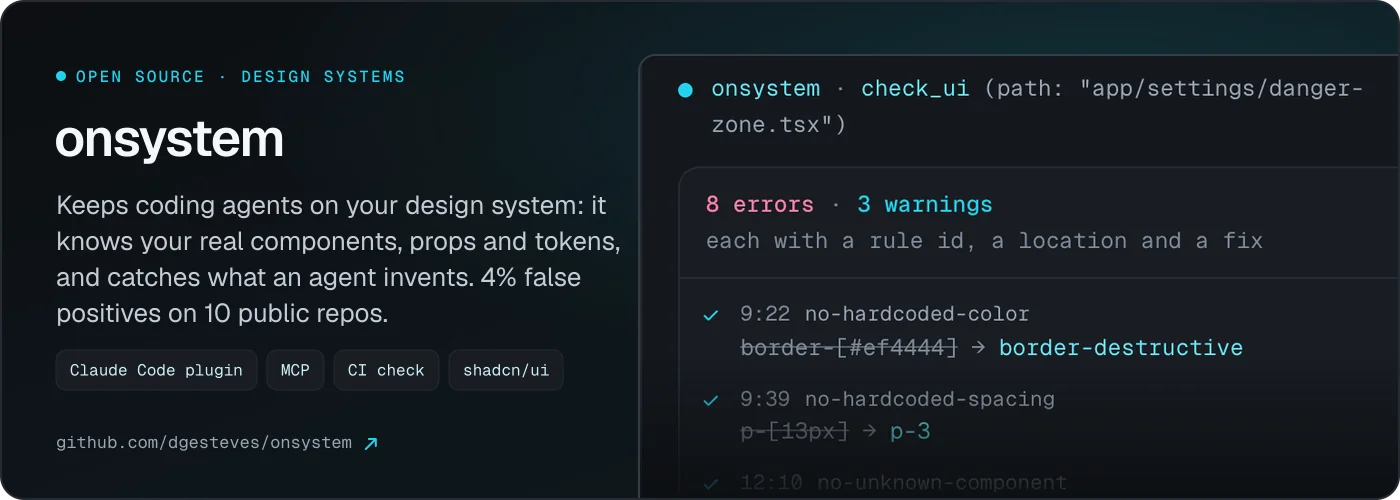
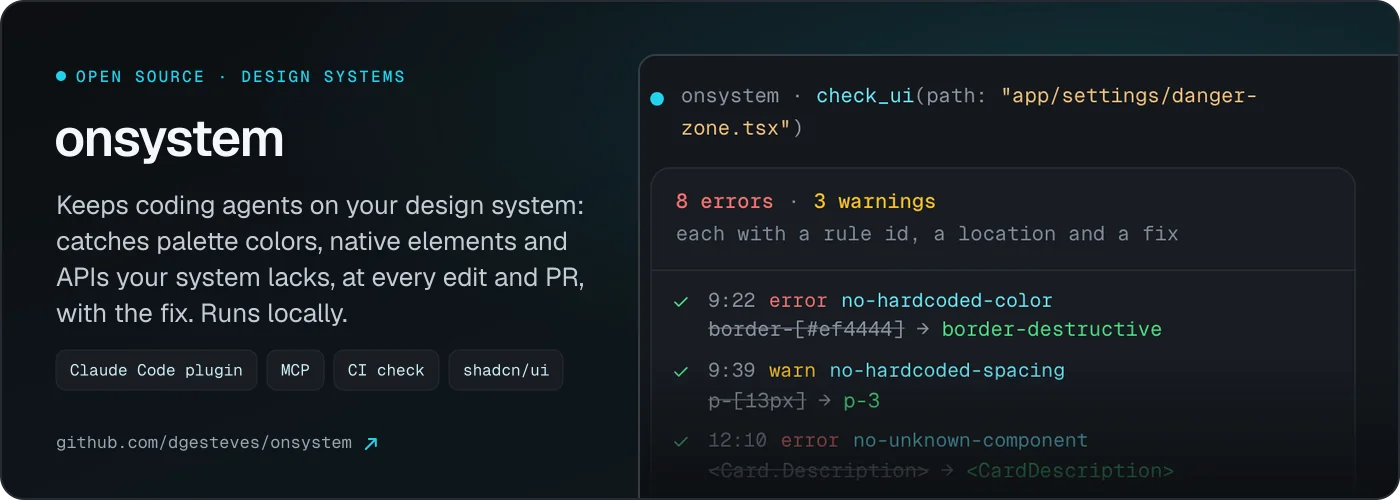
docs: current project pitches on the profile cards
Re-renders the three project cards and their alt text with the launch
copy: onsystem's palette/native-element/API pitch (drops the withdrawn
4% figure), ondocs as open-source Ask AI for docs with VitePress, and
signoff-ui with ACP.

diff --git a/README.md b/README.md
@@ -26,11 +26,11 @@ Full-stack engineer, 10+ years in, focused on AI. I build AI products end to end
 
 https://github.com/user-attachments/assets/0eca8b07-3f2f-4eb1-9419-55a4a48e9b2a
 
-<a href="https://github.com/dgesteves/onsystem"><img src="assets/project-onsystem.webp" width="100%" alt="onsystem: keeps coding agents on your design system. It knows your real components, props and tokens and catches what an agent invents; 4% false positives on 10 public repos. Claude Code plugin, MCP, CI check, shadcn/ui."></a>
+<a href="https://github.com/dgesteves/onsystem"><img src="assets/project-onsystem.webp" width="100%" alt="onsystem: keeps coding agents on your design system. Catches palette colors, native elements and APIs your design system lacks in agent-written React, at every edit and pull request, with the fix. Claude Code plugin, MCP, CI check, shadcn/ui."></a>
 
-<a href="https://github.com/dgesteves/ondocs"><img src="assets/project-ondocs.webp" width="100%" alt="ondocs: makes your docs answerable by people and agents from one static index: a cited Ask box, an MCP server and llms.txt. No vector database, no vendor. Docusaurus, Starlight, MCP, llms.txt."></a>
+<a href="https://github.com/dgesteves/ondocs"><img src="assets/project-ondocs.webp" width="100%" alt="ondocs: open-source Ask AI for your docs. Cited answers on your own model key, and an MCP server for agents, from one index built with your site. No vector database. Starlight, Docusaurus, VitePress, MCP."></a>
 
-<a href="https://github.com/dgesteves/signoff-ui"><img src="assets/project-signoff-ui.webp" width="100%" alt="signoff-ui: review what your agent changed and approve what it may do. React components for multi-file diff review and tool approvals with rules. AI SDK 6 &amp; 7, AG-UI, shadcn registry, WCAG AA."></a>
+<a href="https://github.com/dgesteves/signoff-ui"><img src="assets/project-signoff-ui.webp" width="100%" alt="signoff-ui: review what your agent changed. Approve what it may do. React components for multi-file diff review and tool approvals, for AI SDK, AG-UI and ACP agents. AI SDK 6 &amp; 7, AG-UI, ACP, shadcn registry."></a>
 
 Websites, each with docs and a live demo: [onsystem](https://onsystem.vercel.app) (a `check_ui` playground for your own code) · [ondocs](https://ondocs.vercel.app) (ask the docs, or connect an agent over MCP) · [signoff-ui](https://signoff-ui.vercel.app) (review and approve a scripted agent run)
 
